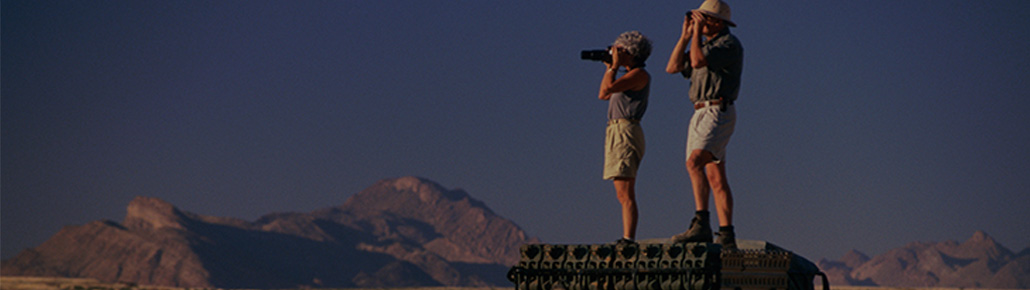
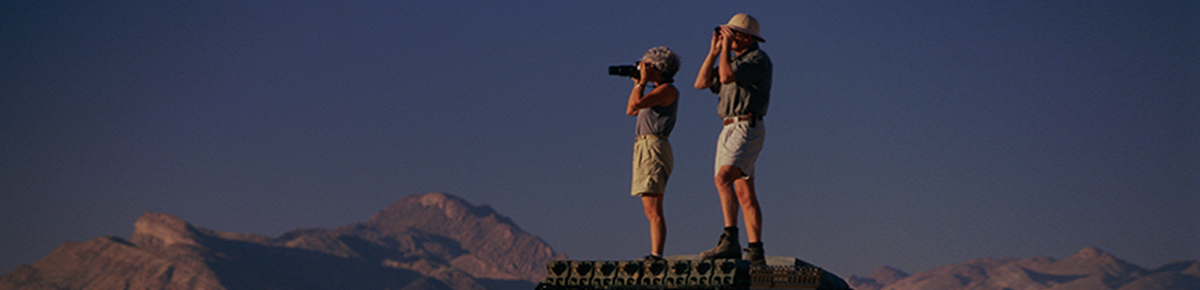
no message

Changed region(s): [[0.0, 0.0, 1.0, 1.0], [0.932, 0.8069, 0.9631, 0.8379]]

diff --git a/landing-page.html b/landing-page.html
@@ -57,8 +57,8 @@
 
     $('#slider .carousel-inner .active').each(function() {
         if (group=='') {
-          $('#header .sliderBox .carousel-caption-all').html($('#header .sliderBox .active .carousel-caption').html());
-          $('#header .sliderBox .carousel-caption-all').show(500);
+          $('#slideContent .sliderBox  .carousel-caption-all').html($('#slideContent .sliderBox  .active .carousel-caption').html());
+          $('#slideContent .sliderBox  .carousel-caption-all').show(500);
           group = $(this).attr('data-group');
         }       
     });
@@ -66,9 +66,9 @@
     $('#slider').on('slid.bs.carousel', function () {
       var thisGroup = $(this).find('div.active').attr('data-group');         
       if ((group != thisGroup)&&(group != '')){
-          $('#header .sliderBox .carousel-caption-all').hide();
-          $('#header .sliderBox .carousel-caption-all').html($('#header .sliderBox .active .carousel-caption').html());
-          $('#header .sliderBox .carousel-caption-all').show(500);
+          $('#slideContent .sliderBox  .carousel-caption-all').hide();
+          $('#slideContent .sliderBox  .carousel-caption-all').html($('#slideContent .sliderBox  .active .carousel-caption').html());
+          $('#slideContent .sliderBox  .carousel-caption-all').show(500);
           group = thisGroup;
       }                 
     });
@@ -101,80 +101,83 @@
         </div>
     </div>
     
-    <div class="row sliderBox">
-     <div class="col-xs-12 col-sm-12 col-md-12 col-lg-12">
-        <div id="slider" class="carousel slide" data-ride="carousel">
-          <!-- Wrapper for slides -->
-           <ol class="carousel-indicators">
-              <li data-target="#slider" data-slide-to="0" class="active"></li>
-              <li data-target="#slider" data-slide-to="1"></li>
-              <li data-target="#slider" data-slide-to="2"></li>
-              <li data-target="#slider" data-slide-to="3"></li>
-              <li data-target="#slider" data-slide-to="4"></li>
-            </ol>
-            <div class="carousel-inner" role="listbox">
-              <div class="carousel-caption carousel-caption-all">test</div>
-              <div class="item active" data-group="1">
-                  <div style="background:url(images/s2.jpg) center center;" class="slider-size">                  
-                     <div class="carousel-caption">
-                    <h2>Treasure Stored Videos</h2>
-                    <div class="text">Put stored videos to good use. Relive memorable moments by having custom-made videos.</div>
-                     <a href="" class="butLink">Get Started Today</a>
-                  </div>
-                  </div>
-              </div>
-            <div class="item" data-group="1">
-                <div style="background:url(images/s3.jpg) center center;" class="slider-size">
-                   <div class="carousel-caption">
-                    <h2>Treasure Stored Videos</h2>
-                    <div class="text">Put stored videos to good use. Relive memorable moments by having custom-made videos.</div>
-                     <a href="" class="butLink">Get Started Today</a>
-                  </div>
-                </div>
-            </div>
-            <div class="item" data-group="1">
-                <div style="background:url(images/s4.jpg) center center" class="slider-size">
-                   <div class="carousel-caption">
-                    <h2>Treasure Stored Videos</h2>
-                    <div class="text">Put stored videos to good use. Relive memorable moments by having custom-made videos.</div>
-                     <a href="" class="butLink">Get Started Today</a>
-                  </div>
-               </div>
-            </div>
-            <div class="item" data-group="1">
-                <div style="background:url(images/s5.jpg) center center;" class="slider-size">
-                   <div class="carousel-caption">
-                    <h2>Treasure Stored Videos</h2>
-                    <div class="text">Put stored videos to good use. Relive memorable moments by having custom-made videos.</div>
-                     <a href="" class="butLink">Get Started Today</a>
-                  </div>
-               </div>
-            </div>
-            <div class="item" data-group="2">
-                <div style="background:url(images/s6.jpg) center center;" class="slider-size">
-                   <div class="carousel-caption">
-                    <h2>Pick Your Own Projects</h2>
-                    <div class="text">Enjoy the freedom of being a freelance video editor. <br>
-    Work anywhere, anytime you want.</div>
-                     <a href="" class="butLink">Get Started Today</a>
-                  </div>
-               </div>
-            </div>     
-              </div>
-               <!-- Controls -->
-                <a class="left carousel-control" href="#slider" role="button" data-slide="prev">
-                  <span class="glyphicon glyphicon-chevron-left" aria-hidden="true"></span>
-                  <span class="sr-only">Previous</span>
-                </a>
-                <a class="right carousel-control" href="#slider" role="button" data-slide="next">
-                  <span class="glyphicon glyphicon-chevron-right" aria-hidden="true"></span>
-                  <span class="sr-only">Next</span>
-                </a>
-           </div>
-     </div>
- </div>
+  
  </div>
 </header>
+<div id="slideContent">
+    <div class="container">
+        <div class="sliderBox">         
+            <div id="slider" class="carousel slide" data-ride="carousel">
+              <!-- Wrapper for slides -->
+               <ol class="carousel-indicators">
+                  <li data-target="#slider" data-slide-to="0" class="active"></li>
+                  <li data-target="#slider" data-slide-to="1"></li>
+                  <li data-target="#slider" data-slide-to="2"></li>
+                  <li data-target="#slider" data-slide-to="3"></li>
+                  <li data-target="#slider" data-slide-to="4"></li>
+                </ol>
+                <div class="carousel-inner" role="listbox">
+                  <div class="carousel-caption carousel-caption-all">test</div>
+                  <div class="item active" data-group="1">
+                      <div style="background-image:url(images/s2.jpg);" class="slider-size">                  
+                         <div class="carousel-caption">
+                        <h2>Treasure Stored Videos</h2>
+                        <div class="text">Put stored videos to good use. Relive memorable moments by having custom-made videos.</div>
+                         <a href="" class="butLink">Get Started Today</a>
+                      </div>
+                      </div>
+                  </div>
+                <div class="item" data-group="1">
+                    <div style="background-image:url(images/s3.jpg);" class="slider-size">
+                       <div class="carousel-caption">
+                        <h2>Treasure Stored Videos</h2>
+                        <div class="text">Put stored videos to good use. Relive memorable moments by having custom-made videos.</div>
+                         <a href="" class="butLink">Get Started Today</a>
+                      </div>
+                    </div>
+                </div>
+                <div class="item" data-group="1">
+                    <div style="background-image:url(images/s4.jpg) " class="slider-size">
+                       <div class="carousel-caption">
+                        <h2>Treasure Stored Videos</h2>
+                        <div class="text">Put stored videos to good use. Relive memorable moments by having custom-made videos.</div>
+                         <a href="" class="butLink">Get Started Today</a>
+                      </div>
+                   </div>
+                </div>
+                <div class="item" data-group="1">
+                    <div style="background-image:url(images/s5.jpg) ;" class="slider-size">
+                       <div class="carousel-caption">
+                        <h2>Treasure Stored Videos</h2>
+                        <div class="text">Put stored videos to good use. Relive memorable moments by having custom-made videos.</div>
+                         <a href="" class="butLink">Get Started Today</a>
+                      </div>
+                   </div>
+                </div>
+                <div class="item" data-group="2">
+                    <div style="background-image:url(images/s6.jpg) ;" class="slider-size">
+                       <div class="carousel-caption">
+                        <h2>Pick Your Own Projects</h2>
+                        <div class="text">Enjoy the freedom of being a freelance video editor. <br>
+        Work anywhere, anytime you want.</div>
+                         <a href="" class="butLink">Get Started Today</a>
+                      </div>
+                   </div>
+                </div>     
+                  </div>
+                   <!-- Controls -->
+                    <a class="left carousel-control" href="#slider" role="button" data-slide="prev">
+                      <span class="glyphicon glyphicon-chevron-left" aria-hidden="true"></span>
+                      <span class="sr-only">Previous</span>
+                    </a>
+                    <a class="right carousel-control" href="#slider" role="button" data-slide="next">
+                      <span class="glyphicon glyphicon-chevron-right" aria-hidden="true"></span>
+                      <span class="sr-only">Next</span>
+                    </a>
+               </div>
+         </div>     
+     </div>
+</div>
 <div id="content">
  <div class="container">
   <fieldset class="nameBlock" >

diff --git a/css/style.css b/css/style.css
@@ -54,20 +54,25 @@ body:after{
 #header .topMenu ul li a:HOVER {
   color:#ff965e;
 }
-#header .sliderBox {
+#slideContent .container{
+  width:100%;
+  max-width:1200px;
+  padding:0px;  
+}
+#slideContent .sliderBox {
   margin-top:20px;
   margin-bottom:20px; 
 }
 
-#header .sliderBox .carousel-caption h2{
+#slideContent .sliderBox .carousel-caption h2{
   font-size:36;
   font-weight:bold;
 }
-#header .sliderBox .carousel-caption .text {
+#slideContent .sliderBox .carousel-caption .text {
   font-size:18px;
   margin-bottom:20px;
 }
-#header .sliderBox .butLink {  
+#slideContent .sliderBox .butLink {  
   background:#ff6c8d;
   display:inline-block;
   text-align:center;
@@ -80,10 +85,10 @@ body:after{
   text-decoration:none;
   width:80%;
 }
-#header .sliderBox .butLink:hover{
+#slideContent .sliderBox .butLink:hover{
   background:#ff965e!important;
 }
-#header .sliderBox img {
+#slideContent .sliderBox img {
   max-width:none;
 }
 .nameBlock {
@@ -593,7 +598,10 @@ footer {
 .carousel-inner .item img {
   
 }
-#header .sliderBox .carousel-control {
+#slideContent {
+  position:relative;
+}
+#slideContent .sliderBox .carousel-control {
   width:6%;
   z-index:25;
 }
@@ -601,14 +609,14 @@ footer {
   bottom:0px;
   z-index:25;
 }
-#header .sliderBox .carousel-indicators li {
+#slideContent .sliderBox .carousel-indicators li {
   width:8px;
   height:8px;
 
   background:#555555;
 }
 
-#header .sliderBox .carousel-indicators .active {
+#slideContent .sliderBox .carousel-indicators .active {
   background:transparent;
   border:1px solid #4ccbff;
    width:10px;
@@ -617,13 +625,15 @@ footer {
 #slider {
   height:290px;
 }
-#header .sliderBox  .slider-size {
-  height:290px
+#slideContent .sliderBox  .slider-size {
+  height:290px;
+  background-repeat:no-repeat;
+  background-position:center center; 
 }
-#header .sliderBox  .carousel-caption {
+#slideContent .sliderBox  .carousel-caption {
   display:none;
 }
-#header .sliderBox  .carousel-caption-all {
+#slideContent .sliderBox  .carousel-caption-all {
   position:absolute;
   z-index:20;
 }
@@ -634,7 +644,7 @@ footer {
   
 }
 @media (min-width: 990px) {
-    #header .sliderBox .carousel-caption {
+    #slideContent .sliderBox .carousel-caption {
     width:45%;
     left:5%;
     right:auto;
@@ -649,7 +659,7 @@ footer {
   #topTab li,#userLoginTab li{
     font-size:20px;
   }
-  #header .sliderBox .carousel-caption {
+  #slideContent .sliderBox .carousel-caption {
     width:60%;
     left:5%;
     right:auto;
@@ -668,10 +678,10 @@ footer {
   .cleaTop {
     display:block;
   }
-  #header .sliderBox {
+  #slideContent .sliderBox {
     margin-top:50px;
   }
-  #header .sliderBox .carousel-caption {
+  #slideContent .sliderBox .carousel-caption {
     width:80%;
     left:10%;
   }
@@ -741,7 +751,7 @@ footer {
 
 }
 @media (max-width: 428px) {
-    #header .sliderBox .carousel-caption {
+    #slideContent .sliderBox .carousel-caption {
     width:100%;
    bottom:2%;;
    left:0px;
@@ -752,7 +762,7 @@ footer {
     margin-left:0px;
     margin-right:0px;
   }
-  #header .sliderBox .carousel-caption .text {
+  #slideContent .sliderBox .carousel-caption .text {
     font-size:17px;
     margin-left:15px;
     margin-right:15px;
@@ -776,10 +786,10 @@ footer {
    font-size:16px;
    bottom:43px;
  }
- #header .sliderBox .carousel-indicators {
+ #slideContent .sliderBox .carousel-indicators {
     bottom:40px;
   }
-  #header .sliderBox .butLink {
+  #slideContent .sliderBox .butLink {
     font-size:18px;
   }
 }
